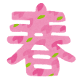
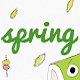
チームアイコン画像を差し替え (#24)
* チームアイコンの差し替え

diff --git a/src/player.html b/src/player.html
@@ -28,9 +28,13 @@
 
       <!-- 名前とチーム選択部分定義 -->
       <div id="pnl-select-team" class="panel-body">
-        <input id="txtbox-user-name" type="text" class="form-control" placeholder="社員番号か名前をいれてください">
-        <div id="btn-team">
-        </div>
+        <form>
+          <div class="form-group">
+            <input id="txtbox-user-name" type="text" class="form-control" placeholder="社員番号か名前をいれてください">
+          </div>
+          <div id="btn-team" class="row">
+          </div>
+        </form>
       </div>
 
       <!-- タイピング部分の定義 -->

diff --git a/src/js/logic/player.js b/src/js/logic/player.js
@@ -296,10 +296,16 @@
 			else if (divBtnTeam.children().length === 0) {
 				this.state.screenInfo.teamList.map(function (value) {
 					divBtnTeam.append(
-						$('<a/>').attr({
-							onclick: 'selectTeam( \'' + value.key + '\' )'
+							$('<div/>').attr({
+								class: 'col-xs-3'
+						})
+						.append(
+							$('<a/>').attr({
+								class	: 'thumbnail',
+								onclick	: 'selectTeam( \'' + value.key + '\' )'
 						}).append($('<img/>').attr(
-							{ src: value.image })));
+									{ src: value.image }
+					))));
 				});
 			}
 	
